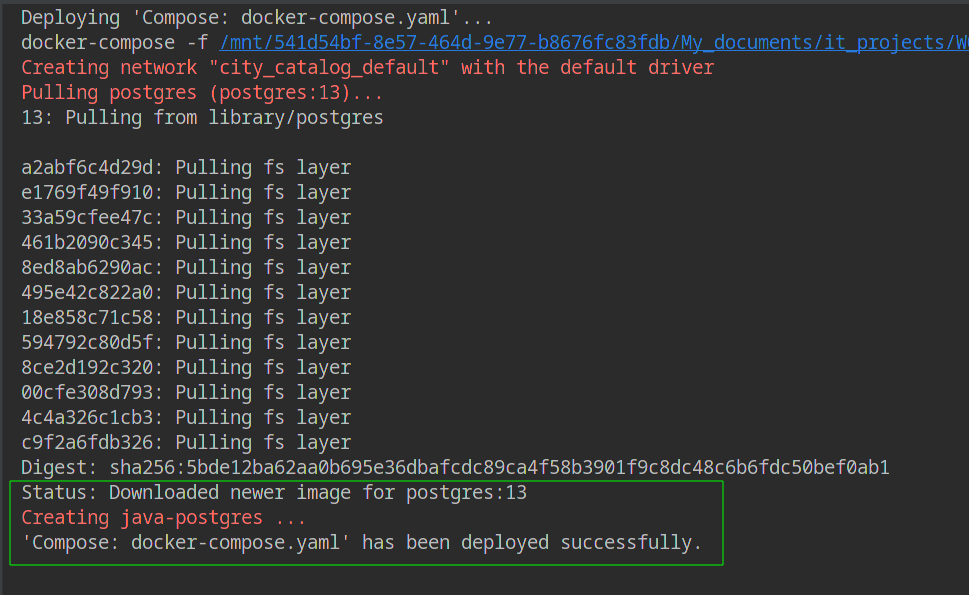
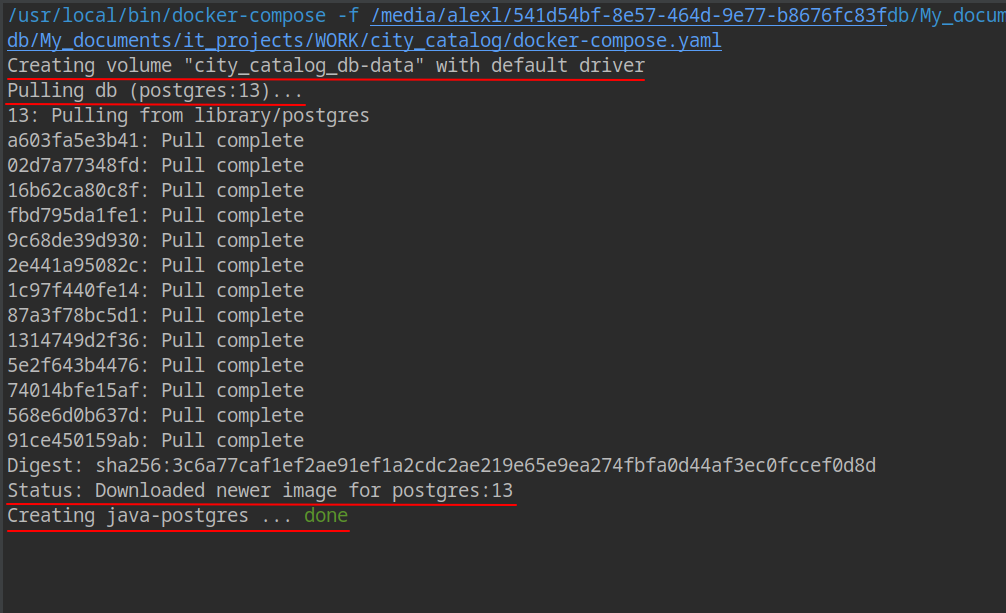
README update

Changed region(s): [[0.0, 0.0, 1.0, 0.9681]]

diff --git a/README.md b/README.md
@@ -60,17 +60,17 @@ Docker-compose работает с сервисами (1 сервис = 1 кон
 `POSTGRES_USER=sa` - это пользователь, который будет логиниться;  
 `POSTGRES_HOST_AUTH_METHOD=trust` - чтобы логиниться в базу без указания пароля;  
 `POSTGRES_DB=java` - название БД, которая будет создана.  
-**Для запуска нажать зелёную стрелку на одной строке с postgres (строчка 4 на скриншоте)**.
+**Для запуска нажать зелёную стрелку на одной строке с db (строчка 4 на скриншоте)**.
 6. В нижней части IntelliJ IDEA во **вкладке Services** будет отображаться процесс:  
 ![](https://github.com/aleksey-nsk/city_catalog/blob/master/screenshots/02_start_docker.png)  
 В итоге отобразится следующая информация:  
 ![](https://github.com/aleksey-nsk/city_catalog/blob/master/screenshots/03_docker_running.png)  
-Это значит, что в **сервисе postgres** поднялся **контейнер java-postgres**.
+Это значит, что в **сервисе db** поднялся **контейнер java-postgres**.
 В папке Images должен быть **образ postgres:13**. В консоли можно увидеть образ, контейнер и том:  
 ![](https://github.com/aleksey-nsk/city_catalog/blob/master/screenshots/04_image_container_volume.png)   
 7. В **dao-слое** должны использоваться следующие значения:
 
-       DB_URL = "jdbc:postgresql://localhost:15432/postgres";
+       DB_URL = "jdbc:postgresql://localhost:15432/java";
        DB_USERNAME = "sa";
        DB_PASSWORD = "";
 
